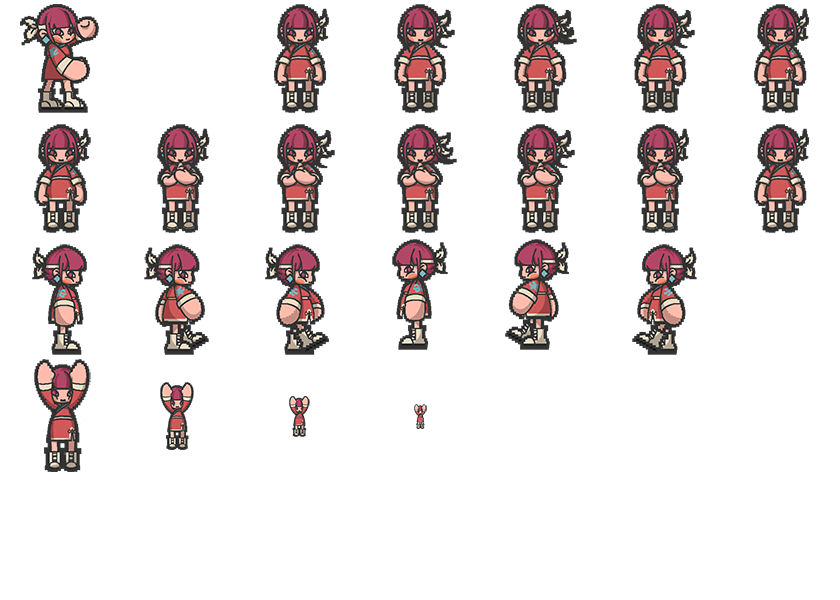
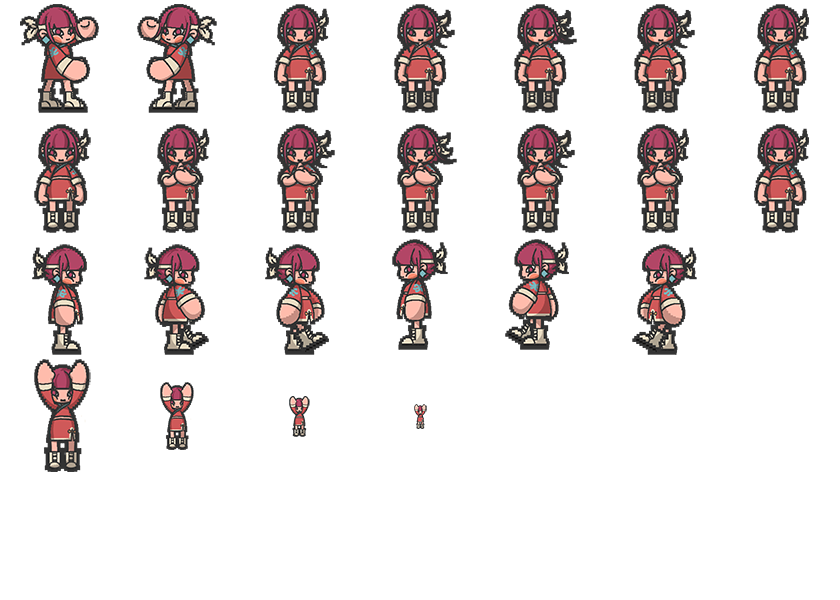
Animation aiming

Changed region(s): [[0.1548, 0.0, 0.2786, 0.21]]

diff --git a/ProjectCode/telerang/Entities/Boomerang.cs b/ProjectCode/telerang/Entities/Boomerang.cs
@@ -130,6 +130,8 @@ namespace telerang
                         }
 
                         _cursorPosition = mousePosition;
+                        if (_cursorPosition.X >= _ninja.Position.X) _ninja.PlayAnim("aimingR", true);
+                        else _ninja.PlayAnim("aimingL", true);
 
                         if (mouseState.LeftButton == ButtonState.Released)
                         {

diff --git a/ProjectCode/telerang/Entities/Ninja.cs b/ProjectCode/telerang/Entities/Ninja.cs
@@ -114,7 +114,7 @@ namespace telerang.Entities
 
                 case NinjaState.Aiming:
                     {
-                        PlayAnim("aiming", true);
+                        //PlayAnim("aiming", true);
                     }
                     break;
 
